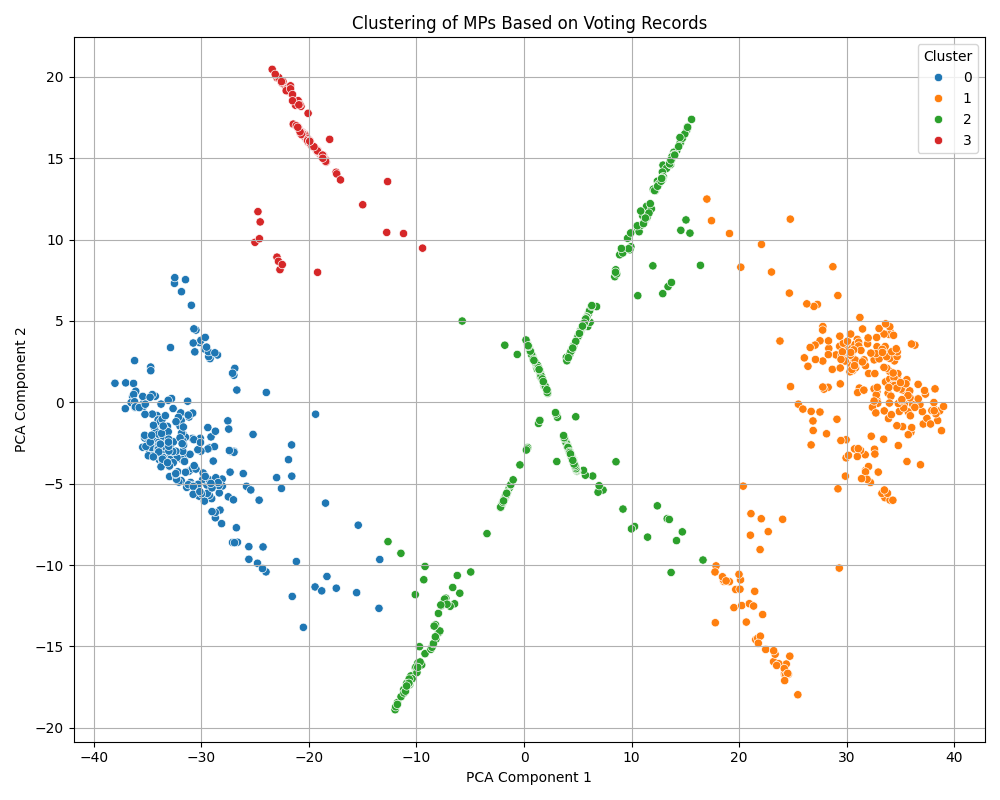
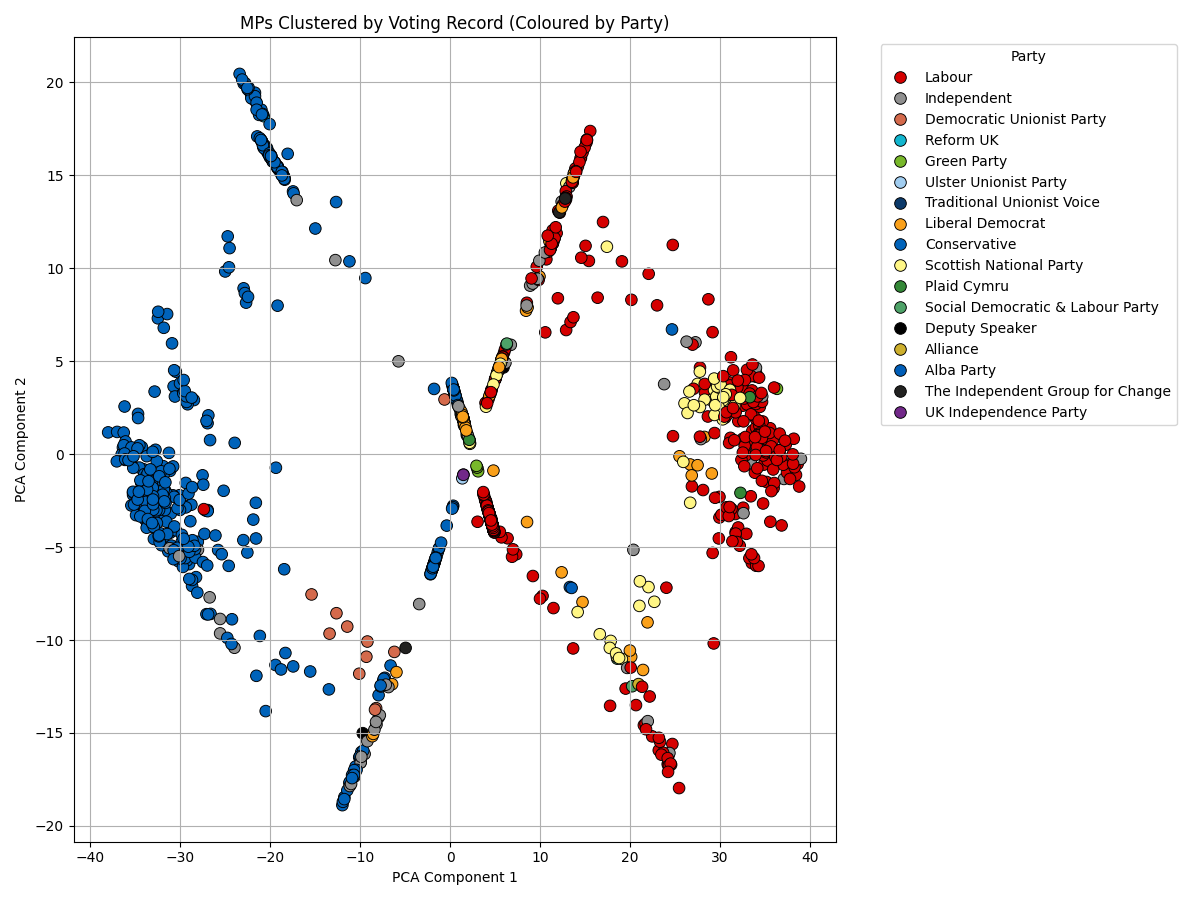
Cluster with party affiliation

diff --git a/cluster_mps.py b/cluster_mps.py
@@ -1,35 +1,57 @@
 import pandas as pd
-from sklearn.decomposition import PCA
-from sklearn.cluster import KMeans
 import matplotlib.pyplot as plt
 import seaborn as sns
+import json
+from sklearn.decomposition import PCA
+from sklearn.cluster import KMeans
 
-# Load saved DataFrame from Parquet file
+# Load vote matrix
 df = pd.read_parquet("mp_vote_map.parquet")
 print(f"Loaded DataFrame shape: {df.shape}")
 
-# Optionally remove MPs with few votes (absolute sum of votes > 50)
+# Filter MPs with low participation
 df_filtered = df[df.abs().sum(axis=1) > 50]
 print(f"Data shape after filtering MPs with >50 votes: {df_filtered.shape}")
 
 if df_filtered.empty:
-    raise ValueError("DataFrame is empty after filtering — no MPs with enough votes")
+    raise ValueError("DataFrame is empty after filtering")
 
-# Dimensionality reduction for visualization
+# Load party and colour info
+with open("mp_party.json", "r", encoding="utf-8") as f:
+    party_map = json.load(f)
+
+party_lookup = {int(k): v.get("Party", "Unknown") for k, v in party_map.items()}
+colour_lookup = {int(k): "#" + v.get("PartyColour", "999999") for k, v in party_map.items()}
+
+# Reduce dimensions
 pca = PCA(n_components=2)
 X_reduced = pca.fit_transform(df_filtered)
 
-# Clustering
-kmeans = KMeans(n_clusters=4, random_state=42)
-labels = kmeans.fit_predict(X_reduced)
+# Create DataFrame for plotting
+plot_df = pd.DataFrame({
+    "x": X_reduced[:, 0],
+    "y": X_reduced[:, 1],
+    "MemberId": df_filtered.index,
+})
+plot_df["Party"] = plot_df["MemberId"].map(party_lookup)
+plot_df["Colour"] = plot_df["MemberId"].map(colour_lookup)
 
-# Visualise
-plt.figure(figsize=(10, 8))
-sns.scatterplot(x=X_reduced[:, 0], y=X_reduced[:, 1], hue=labels, palette="tab10", legend="full")
-plt.title("Clustering of MPs Based on Voting Records")
+# Plot
+plt.figure(figsize=(12, 9))
+sns.scatterplot(
+    data=plot_df,
+    x="x", y="y",
+    hue="Party",
+    palette={party: plot_df[plot_df["Party"] == party]["Colour"].iloc[0] for party in plot_df["Party"].unique()},
+    legend="full",
+    s=70,
+    edgecolor="black"
+)
+
+plt.title("MPs Clustered by Voting Record (Coloured by Party)")
 plt.xlabel("PCA Component 1")
 plt.ylabel("PCA Component 2")
-plt.legend(title="Cluster")
 plt.grid(True)
+plt.legend(title="Party", bbox_to_anchor=(1.05, 1), loc="upper left")
 plt.tight_layout()
 plt.show()

diff --git a/40_mp_party_labels.py b/40_mp_party_labels.py
@@ -1,0 +1,36 @@
+import json
+from collections import defaultdict
+
+with open('division_votes_detailed_last_10_years.json', 'r', encoding='utf-8') as f:
+    divisions = json.load(f)
+
+mp_party = dict()
+party_colours = dict()
+
+for division in divisions:
+    for side in ['Ayes', 'Noes']:
+        for mp in division.get(side, []):
+            mp_id = mp['MemberId']
+            if mp_id not in mp_party:
+                mp_party[mp_id] = {
+                    'Name': mp['Name'],
+                    'Party': mp['Party'],
+                    'PartyAbbreviation': mp['PartyAbbreviation'],
+                    'PartyColour': mp['PartyColour'],
+                }
+
+    # Tellers may be included later if desired
+
+# Now map party abbreviation to colour
+for mp_data in mp_party.values():
+    abbr = mp_data['PartyAbbreviation']
+    colour = mp_data['PartyColour']
+    if abbr and colour and abbr not in party_colours:
+        party_colours[abbr] = colour
+
+# Save results
+with open('mp_party.json', 'w', encoding='utf-8') as f:
+    json.dump(mp_party, f, indent=2)
+
+with open('party_colours.json', 'w', encoding='utf-8') as f:
+    json.dump(party_colours, f, indent=2)
